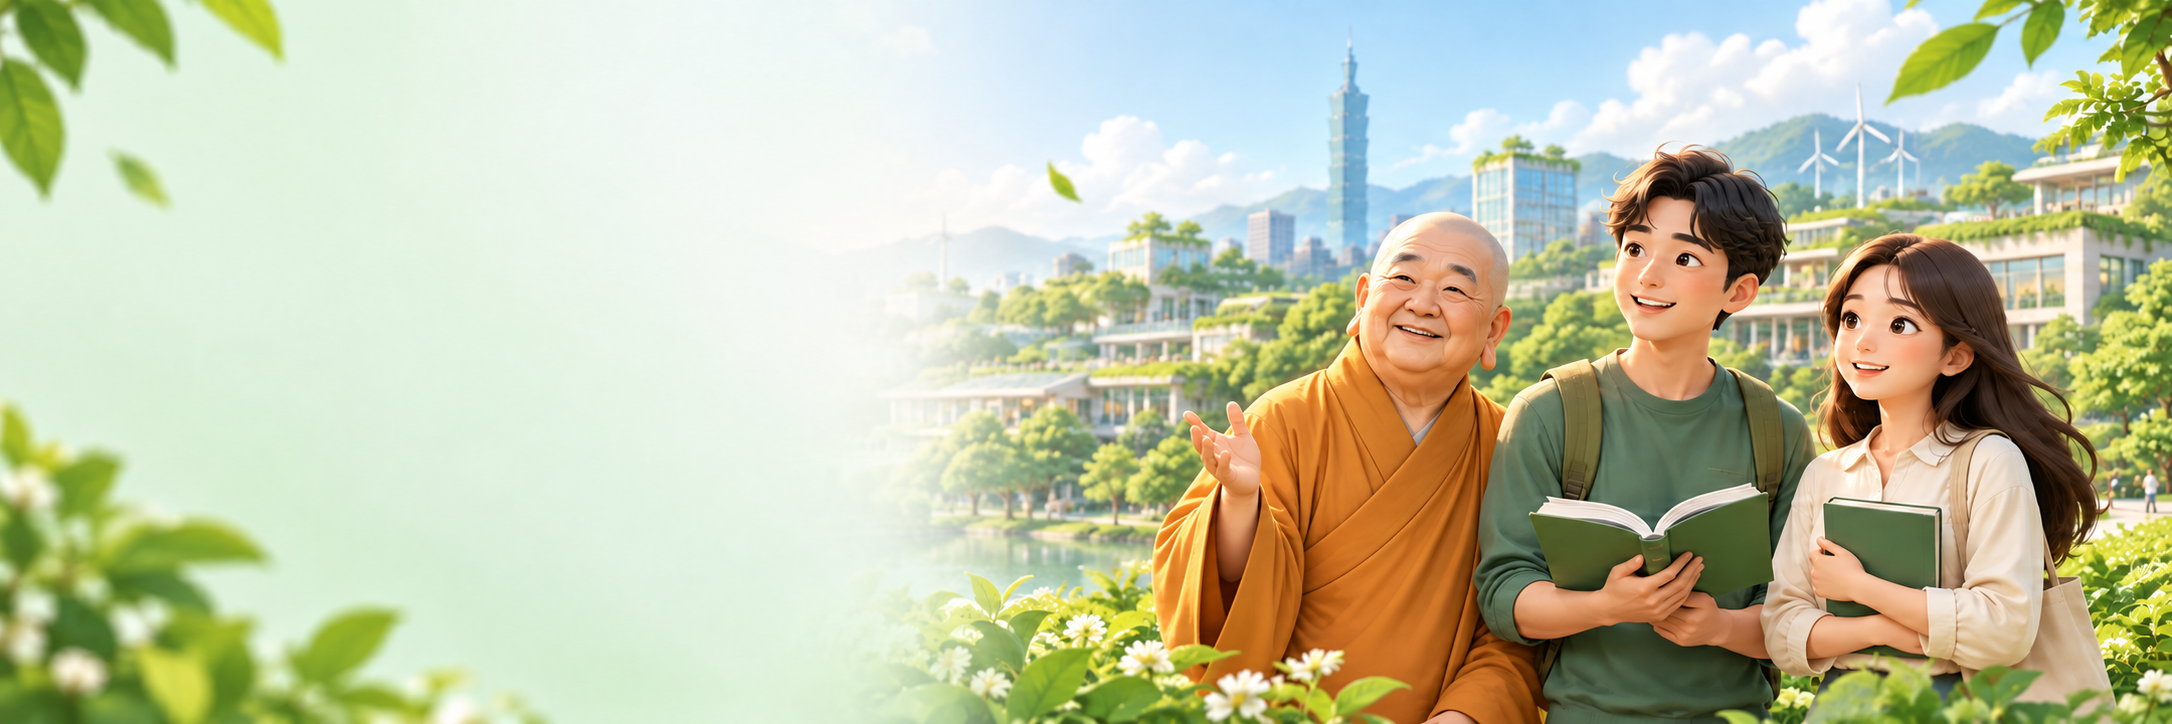
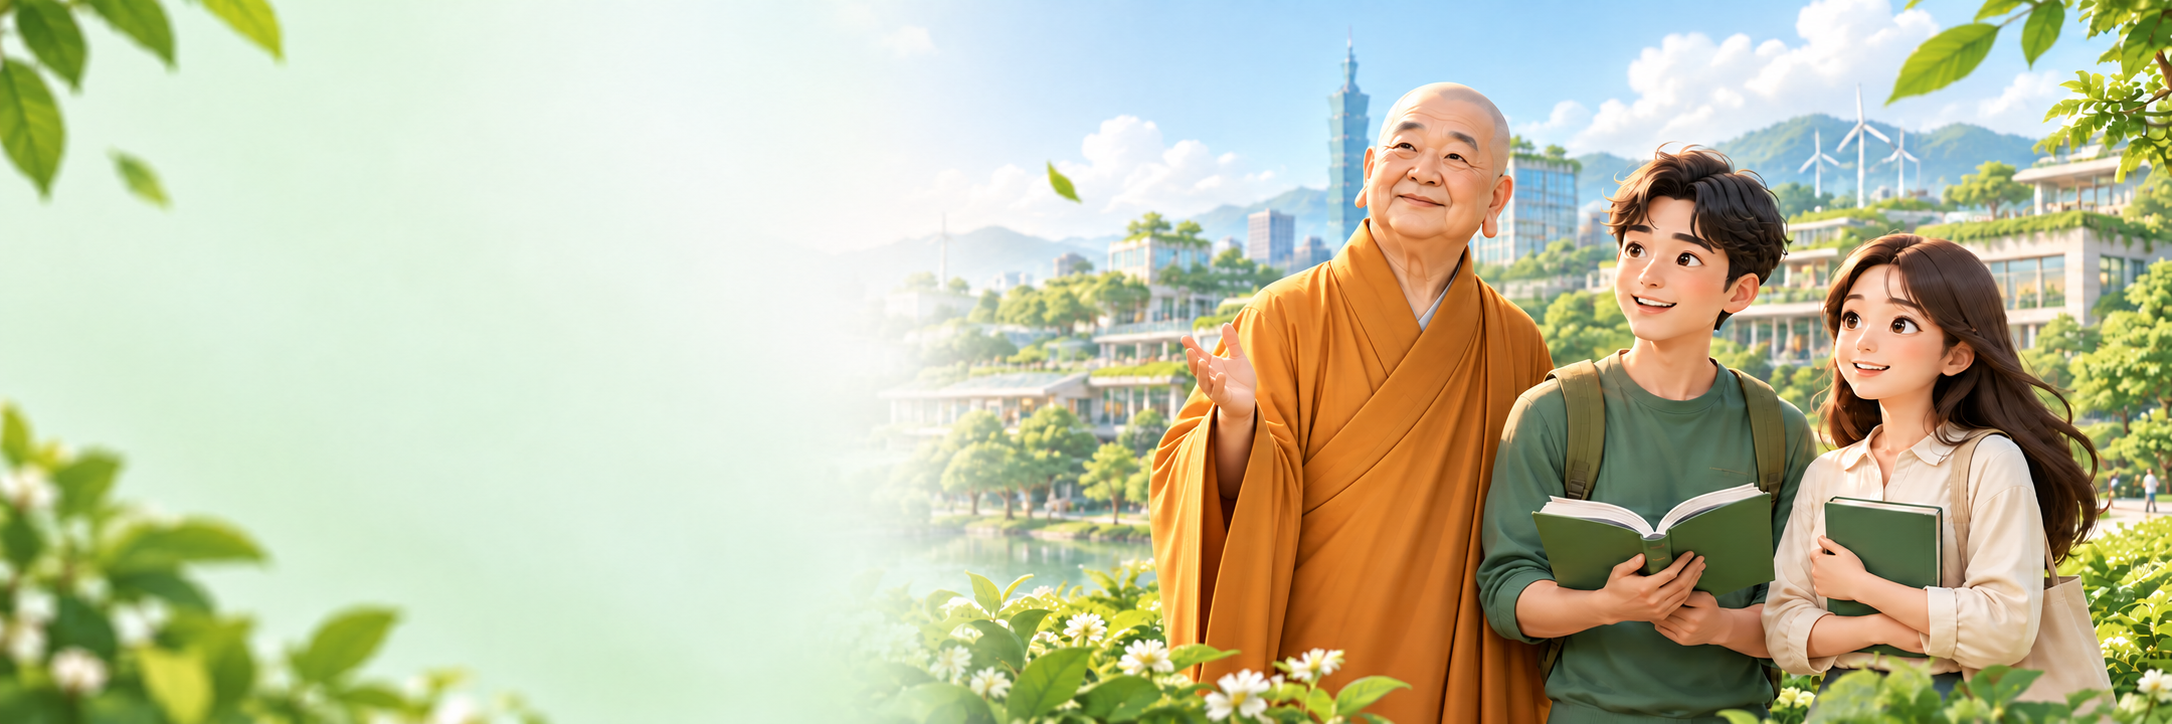
Refine monk illustration with tall scholarly and dignified presence

diff --git a/static/css/attendance.css b/static/css/attendance.css
@@ -29,7 +29,7 @@ body.attendance-platform { display: block; padding: 0; background: var(--ds-bg);
 
 /* Student dashboard: use the shared shell; keep course controls and states intact. */
 .course-dashboard { --course-signed: var(--ds-green-ink); --course-leave: var(--ds-warning); --course-makeup: #7e22ce; }
-.course-dashboard .course-welcome { padding: 28px; background-image: linear-gradient(90deg,#f3fcf8 25%,#f3fcf8d9 46%,#f3fcf800 70%),url("/static/images/course-community.png?v=20261019_hsingyun"); }
+.course-dashboard .course-welcome { padding: 28px; background-size: 100% 100%,auto 145%; background-position: right top; background-image: linear-gradient(90deg,#f3fcf8 25%,#f3fcf8d9 46%,#f3fcf800 70%),url("/static/images/course-community.png?v=20261019_hsingyun_tall"); }
 .course-dashboard .course-welcome h1 { margin-top: 8px; }
 .course-dashboard .course-welcome p:last-child { font-size: 13px; overflow-wrap: anywhere; }
 .course-dashboard .course-stats { display: grid; grid-template-columns: repeat(4,minmax(0,1fr)); gap: 16px; }
@@ -68,7 +68,7 @@ body.attendance-platform { display: block; padding: 0; background: var(--ds-bg);
 }
 @media(max-width:899px) { .course-dashboard .course-stats { grid-template-columns: repeat(2,minmax(0,1fr)); } }
 @media(max-width:600px) {
- .course-dashboard .course-welcome { padding: 20px 20px 160px; background-image: linear-gradient(#f3fcf8 0 70%,#f3fcf800 80%),url("/static/images/course-community.png?v=20261019_hsingyun"); }
+ .course-dashboard .course-welcome { padding: 20px 20px 160px; background-size: 100% 100%,auto 150px; background-position: right bottom; background-image: linear-gradient(#f3fcf8 0 70%,#f3fcf800 80%),url("/static/images/course-community.png?v=20261019_hsingyun_tall"); }
  .course-dashboard .course-stats { gap: 12px; }
  .course-dashboard .course-card { grid-template-columns: minmax(0,1fr); padding: 16px; gap: 16px; }
  .course-dashboard .course-information { grid-template-columns: 44px minmax(0,1fr); column-gap: 12px; }

diff --git a/templates/dashboard.html b/templates/dashboard.html
@@ -12,7 +12,7 @@
     }
   </style>
   <link rel="stylesheet" href="/static/css/design-system.css?v=20261019_ui1280">
-  <link rel="stylesheet" href="/static/css/attendance.css?v=20261019_hsingyun">
+  <link rel="stylesheet" href="/static/css/attendance.css?v=20261019_hsingyun_tall">
 </head>
 <body class="sdgs-shell attendance-platform course-dashboard min-h-screen">
   {% include "platform-nav.html" %}

diff --git a/docs/course-banner-hsing-yun.md b/docs/course-banner-hsing-yun.md
@@ -2,6 +2,8 @@
 
 資產：`static/images/course-community.png`（2172 × 724）。使用內建 imagegen 編輯既有橫幅，取代三人中左側的年輕法師形象；保留男生、女生、書本、校園與左側文字留白。桌機與手機的呈現沿用原版型，圖片及 CSS 版本為 `20261019_hsingyun`。
 
-最終提示詞：
+本次修訂：身形高大挺拔、斯文莊嚴、含蓄微笑，保留其他人物與背景。桌機橫幅從上方對齊並調整背景縮放，讓三人的臉部均完整呈現；手機沿用完整小圖呈現。版本：20261019_hsingyun_tall。
 
-Use case: precise-object-edit. Edit target: the supplied wide 2172x724 website banner. Change ONLY the Buddhist monk who stands immediately to the left of the young man (leftmost of the three people on the right side). Replace his youthful generic face and youthful body proportions with a recognizable, respectful stylized portrait of Fo Guang Shan founder Venerable Master Hsing Yun (佛光山開山宗長星雲大師), portrayed as a kindly elderly East Asian Buddhist master: broad rounded face and forehead, shaved head, gently heavy eyelids, softly arched brows, broad nose, full rounded cheeks with visible elderly smile folds, large elongated earlobes, warm compassionate smile, mature elderly neck and dignified build. No beard, no glasses. Keep the same gentle welcoming raised-hand gesture, ochre/saffron Buddhist robes, similar position and overall silhouette. Match the existing polished soft 3D illustrated storybook style, not a photographic cutout. Keep the young man, young woman, books, their faces, hands, clothes and positions unchanged. Keep the whole mint-green background, campus, Taipei skyline, trees, leaves, flowers, lighting, camera framing, 3:1 panoramic composition, and large empty pale-green left half unchanged. Do not add text, logos, halo, border, or other people. This is a precise local identity replacement, not a redesign of the whole banner.
+最終提示詞（內建 imagegen 編輯模式）：
+
+Use case: precise-object-edit. Edit target: supplied 2172x724 panoramic banner. Modify ONLY the leftmost Buddhist monk among the three people on the right. Retain his identity as Fo Guang Shan Venerable Master Hsing Yun, but the user requests 高大、斯文、莊嚴: make him visibly tall, upright, dignified and scholarly, with elegant adult proportions and a long straight torso, broad yet refined shoulders and a composed authoritative bearing. Raise his shaved head so the TOP OF HIS HEAD IS SLIGHTLY HIGHER than the top of the young man's hair; his body should read as taller than the man, not short, hunched or stocky. Reduce the plumpness of cheeks, neck and belly while retaining recognizable elderly East Asian features and large earlobes. Give him a serene, refined face with a subtle closed-mouth smile, calm attentive eyes, wisdom and solemn compassion, not a broad laughing grin. His orange Buddhist robe should drape in long elegant vertical folds. Keep his welcoming raised hand gentle and restrained. Preserve the young man and young woman completely unchanged, including their faces, bodies, books, hands, clothing and positions. Preserve the campus, skyline, trees, leaves, flowers, soft lighting, mint palette, large blank left half, panoramic 3:1 framing and polished soft 3D illustration style. No added text, logos, halo or new objects. Do not shift the whole group or change the background. This is a local edit to the monk's height, build, expression and robe only.
